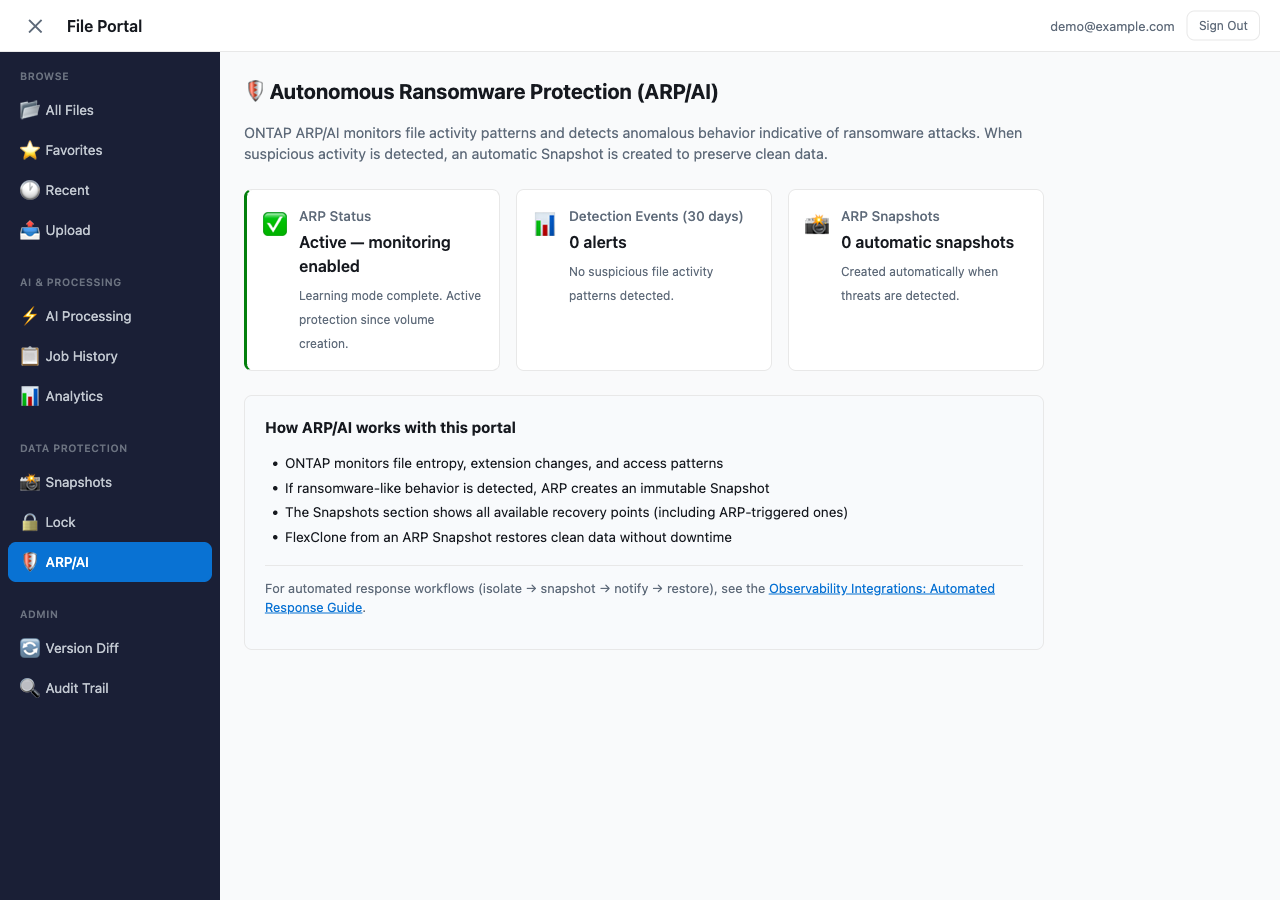
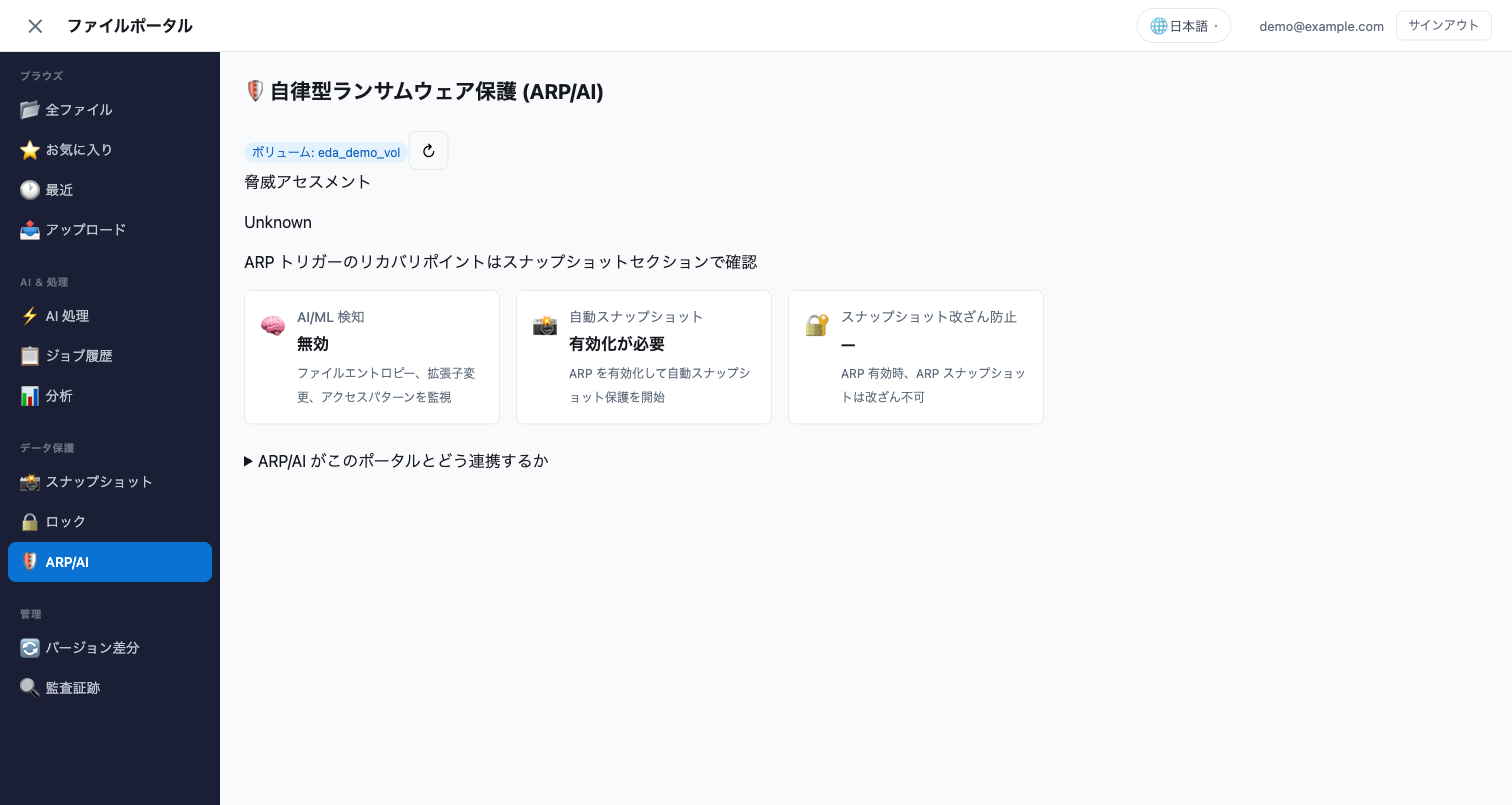
docs: add i18n design guide to AGENTS.md + refresh screenshots with pill-shaped switcher
AGENTS.md additions:
- New section: 'UI Internationalization (i18n) — 8 Languages'
- Architecture diagram, design rules for AI agents (10 rules)
- How to add new translatable strings (step-by-step)
- CSS custom properties for theming
- Key naming conventions

portal-tabs-guide.md: Added i18n section with language table

Screenshot updates:
- portal-sidebar-layout.png: refreshed with pill-shaped switcher visible
- portal-data-protection-arp.png: ARP section with translated labels
- portal-data-protection-lock.png: Lock section with translated tab labels
- portal-i18n-dropdown-open.png: new screenshot showing all 8 languages in dropdown
- portal-i18n-{ja,en,ko,zh-cn}.png: refreshed with pill-shaped switcher

Demo guides (EN/JA): added dropdown-open screenshot to language switcher section

diff --git a/AGENTS.md b/AGENTS.md
@@ -491,6 +491,78 @@ docker run -d -p 4566:4566 floci/floci:latest
 python -m pytest shared/tests/integration/ -v
 ```
 
+## UI Internationalization (i18n) — 8 Languages
+
+The Amplify portal supports 8 languages with instant runtime switching. All new UI components must follow these patterns.
+
+### Supported Languages
+
+| Code | Label | Auto-detect pattern |
+|------|-------|:---:|
+| `ja` | 日本語 | `ja-*` |
+| `en` | English | `en-*` |
+| `ko` | 한국어 | `ko-*` |
+| `zh-CN` | 简体中文 | `zh-CN`, `zh` |
+| `zh-TW` | 繁體中文 | `zh-TW`, `zh-Hant` |
+| `fr` | Français | `fr-*` |
+| `de` | Deutsch | `de-*` |
+| `es` | Español | `es-*` |
+
+### Architecture
+
+```
+src/i18n/
+├── index.tsx          # I18nProvider context + useTranslation hook
+└── locales/
+    ├── index.ts       # Re-exports all locales
+    ├── ja.ts          # Source of truth (defines TranslationKeys type)
+    ├── en.ts          # English translations
+    ├── ko.ts          # Korean
+    ├── zh-CN.ts       # Simplified Chinese
+    ├── zh-TW.ts       # Traditional Chinese
+    ├── fr.ts          # French
+    ├── de.ts          # German
+    └── es.ts          # Spanish
+```
+
+### Design Rules for AI Agents
+
+1. **ja.ts is the type source**: `TranslationKeys` is exported from `ja.ts`. All other locale files must implement `Record<TranslationKeys, string>`
+2. **No hardcoded user-facing strings**: Every visible label, heading, button text, description, error message, and placeholder must use `t("keyName")`
+3. **Technical terms stay in English**: ONTAP, SnapLock, FlexClone, S3 AP, ARP/AI, REST API, Lambda, Cognito, WORM, VPC, IAM, ARN — these are product/technology names and are NOT translated
+4. **Key naming convention**: camelCase, prefixed by component area (`arp*`, `lock*`, `snapshots*`, `nav*`, `group*`)
+5. **New keys**: Add to `ja.ts` first (with type), then to all 7 other locale files
+6. **Language Switcher UI**: Pill-shaped custom dropdown (`LanguageSwitcher.tsx`), not native `<select>`. Shows 🌐 + current language in native script + chevron
+7. **No flags**: Flags represent countries, not languages (per Smashing Magazine UX research). Use language names in native script only
+8. **Persistence**: `localStorage.getItem("portal-locale")` → auto-detect from `navigator.language` if not set
+9. **Graceful fallback**: `t(key)` falls back to English if key is missing in current locale, then to key name itself
+10. **Test environment**: `getInitialLocale()` handles missing `localStorage`/`navigator` gracefully (SSR/jsdom)
+
+### How to Add a New Translatable String
+
+```typescript
+// 1. Add key to ja.ts (source of truth)
+export const ja = {
+  // ... existing keys ...
+  myNewLabel: "新しいラベル",
+} as const;
+
+// 2. Add to all other locale files (en.ts, ko.ts, zh-CN.ts, zh-TW.ts, fr.ts, de.ts, es.ts)
+// TypeScript will show errors until all files have the new key
+
+// 3. Use in component
+import { useTranslation } from "../i18n";
+const { t } = useTranslation();
+return <h2>{t("myNewLabel")}</h2>;
+```
+
+### Language Switcher CSS
+
+The pill-shaped dropdown uses CSS custom properties for theming:
+- `--border-color`, `--surface-color`, `--text-color`, `--hover-bg`, `--accent-color`, `--selected-bg`
+- Animation: `lang-fade-in` (opacity + translateY, 0.12s ease)
+- Z-index: 1000 (above all content)
+
 ## External Dependencies
 
 - **AWS Region**: ap-northeast-1 (Tokyo) — primary deployment target

diff --git a/docs/ja/portal-demo-guide.md b/docs/ja/portal-demo-guide.md
@@ -310,6 +310,10 @@ storage-admin ユーザーの場合、未ロック Snapshot の隣に **🔒 Loc
 
 #### スクリーンショット
 
+**言語ドロップダウン展開時（ピル型、8 言語）**:
+
+![言語ドロップダウン展開](../screenshots/portal-demo/portal-i18n-dropdown-open.png)
+
 **日本語（ブラウザ言語から自動検知）**:
 
 ![日本語 UI](../screenshots/portal-demo/portal-i18n-ja.png)

diff --git a/docs/en/portal-demo-guide.md b/docs/en/portal-demo-guide.md
@@ -310,6 +310,10 @@ The portal supports 8 languages with instant switching via the dropdown in the t
 
 #### Screenshots
 
+**Language dropdown open (pill-shaped, 8 languages)**:
+
+![Language dropdown open](../screenshots/portal-demo/portal-i18n-dropdown-open.png)
+
 **Japanese (auto-detected from browser)**:
 
 ![Japanese UI](../screenshots/portal-demo/portal-i18n-ja.png)
